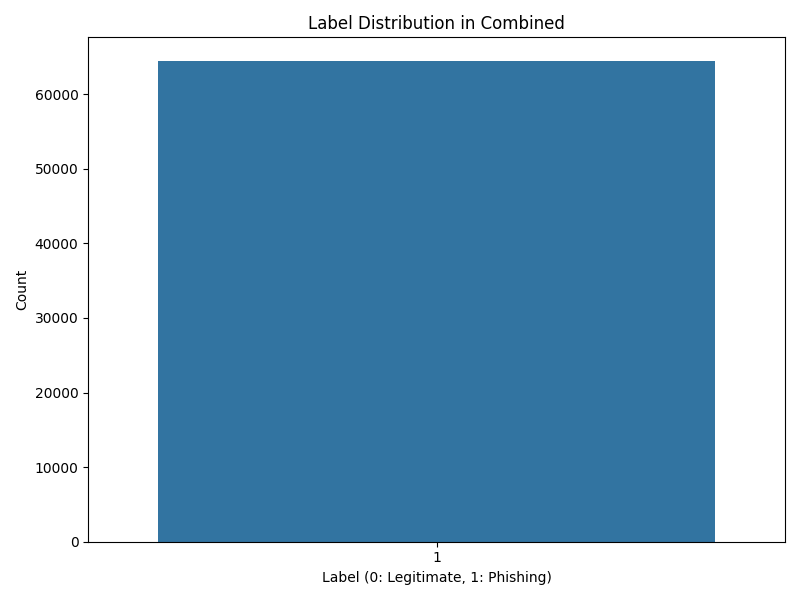
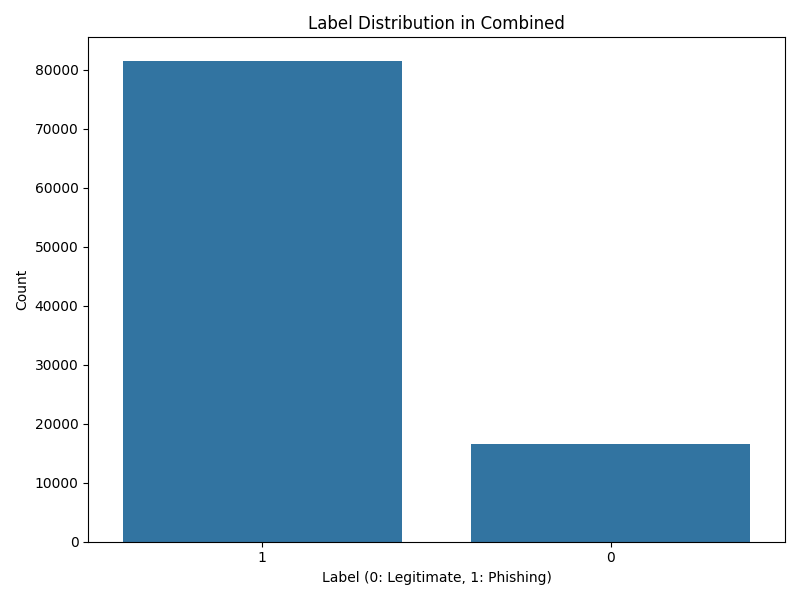
Updated result EDA

diff --git a/results/eda/summary.md b/results/eda/summary.md
@@ -1,36 +1,103 @@
 # EDA Summary
 
 ## Enron
-**Summary**: {'Size': 0, 'Columns': ['text', 'label'], 'Missing Values': {'text': 0, 'label': 0}, 'Duplicates': np.int64(0)}
-**Label Distribution**: {}
-**Text Stats**: {}
-**Top Phishing Words**: []
-**Top Legitimate Words**: []
+**Summary**: {'Size': 33652, 'Columns': ['text', 'label'], 'Missing Values': {'text': 0, 'label': 0}, 'Duplicates': np.int64(4692)}
+**Label Distribution**: {1: 17107, 0: 16545}
+**Text Stats**: {'Char Length Mean': np.float64(1092.2825983596815), 'Char Length Median': np.float64(491.0), 'Word Length Mean': np.float64(1.0), 'Word Length Median': np.float64(1.0)}
+**Top Phishing Words**: [('savepercentonsuperviagrasavepercentonsuperviagraandincreasesexdrivemostplaceschargewechargeonlywhatisregalissuperviagraregaliscontainstadalafilmgwhichisthesameactiveingredientfoundinbrandnamecialisithasbeenprovedtohelpalargemajorityofmenwhosufferfromerectiledysfunctionalsocalledimpotencecialisisregardedasasuperviagraorweekendviagrabecauseitseffectsstartsoonerandlastmuchlongermenthatdonothaveimpotenceproblemsreportthatregalisincreasessexualpleasureandstayingpoweraswellasincreasingthesizeandhardnessoferectionsisitsafeformetotakeregalissuperviagrayoucanexpectgenericcialistoworkinthesamewayasbrandnamecialisbecausetheycontaintheexactsameactiveingredienttadalafilifcialisissafeforyouasdecidedbyyourdoctorgenericcialisisalsosafeforyouandshouldbetakeninthesamedosesasprescribedbyyourdoctortheusualdoesismgeachmgpillcanbesplitinhalfwillyoushipregalissuperviagratomycountrygenericcialisshipsworldwideincludingcanadajapanukandaustraliaweshipourproductinadiscretebrownpackagethatdoesnotmentionthecontentsoftheshipmentallordersareshippedfromindiaandusuallytakedaystoarivehowdoipayforregalissuperviagraweacceptmajorcreditcardsandcheckingaccountsusonlyalldataistransmitteddirectlytothebankusingbitencriptionandprocessedinstantlyweneverkeepyourinformationstoredonourserveryouaretotallysafetoorderonlinefromusinfactorderingonlinefromusissaferthanusingyourcardatarestaurantorstorebuyregalisgenericcialisandsavepercentwehavetheworldsbestpriceguaranteedremove', 9), ('fwdyourneededsoffttwaresatrockbottomprricewhatyouboughtpreviouslywasgotoshopbuuyyawindowsxpprothatcomeswithaboxserialnumberthemanualcosstwhatyouwillgetfromusisthefullwlndowsxpprosofftwareeserialnumberitworksexactlythesamebutyoudontgetthemanualandboxandtheprriceeisonlythatisasavviingofsooftwaretitleourlowpriicceadobbecreativesuitecdsadobbephotooshopcscddstudiomaxcdsadobbepremiereprocdaliaswavefrontmayaunlimitedautocadautodeskarchitecturaldesktopcakewalksonarproducereditioncdscanopusprocodercdcoreldrawgraphicsuitecdsdragonnaturallyspeakingpreferredmacromediadreamweavermxvmacromediafireworksmxvmacromediaflashmxvprofessionalmacromediastudiomxcdmicrosoftmoneydeluxecdmicrosoftofficesystemprofessionalcdsmicrosoftofficemultilingualuserinterfacepackcdsmicrosoftprojectpromicrosoftpublisherxpmicrosoftvisioforenterprisearchitectsmicrosoftwindowsxpcorporateeditionwithsplmicrosoftwindowsxpprofessionalnortonantiviruspronortonsystemworksprocdomnipageofficecdpinnacleimpressiondvdprocdptcproengineerwildfiredatecodecdspowerquestdriveimagemultilanguagecduleaddvdworkshopmicrosoftvisualstudionetenterprisearchitectcdswinfaxproandmoresoftwareshavesoftwaretitlesonoursiteforudownloadyoursofftwaaresfromoursuperfastmbitsconnectionsiteyouwillbegivenyourownexclusiveregistrationkeytoregisterthesofftwaaresyouboughtfromusandnowyouhaveyourownregisteredcopyofsofftwaareswillneverexpiredagainitsoemversionofsofftwaareswhichisanoriginalgenuinesofftwaaresstrictlynopiracysofftwaaresoverpopulartitlesforyoutochoosefromactquicknowbeforeallsoldstartusingyourneededsofftwaaresnowclickhereplzgiveminstocompletethepageloadingbcosthepagehastitlesonittakemedown', 8), ('overfdaapprovedmedsrndaltrndaltrndaltovermedstochoosefromwithnoprescriptionrequirednevermindrndaltrndaltrndalt', 8), ('hellodearhomeownerwehavebeennotifiedthatyourmortgagerateisfixedataveryhighinterestratethereforeyouarecurrentoverpayingwhichsumsuptothousandsofdollarsannuallyluckilyforyouwecanguaranteethelowestratesintheussohurrybecausetherateforecastisnotlookinggoodthereisnoobligationsanditfreelockontheevenwithbadcreditclickherenowfordetailsremovehere', 7), ('newproductcialissofttabshiwehaveanewproductthatweoffertoyoucialissofttabscialissofttabsisthenewimpotencetreatmentdrugthateveryoneistalkingaboutsofttabsactsuptohourscomparethistoonlytwoorthreehoursofviagraactiontheactiveingredientistadalafilsameasinbrandcialissimplydisolvehalfapillunderyourtongueminbeforesexforthebesterectionsyouveeverhadsofttabsalsohavelesssidebacksyoucandriveormixalcoholdrinkswiththemyoucangetitathttpgomedzcomsoftnothankshttpgomedzcomrrphp', 6), ('charityseestheneednotthecostdearfriendasyoureadthisidontwantyoutofeelsorryformebecauseibelieveeveryonewilldiesomedaymynameismrrezaabdullaamerchantinsafatinkuwaitiwasmarriedwithtwochildrenmywifeandtwochildrendiedinacaraccidentsixyearsagoihavebeendiagnosedwithesophagealcancerithasdefiledallformsofmedicaltreatmentandrightnowihaveonlyaboutafewmonthstoliveaccordingtomedicalexpertsihavenotparticularlylivedmylifesowellasineverreallycaredforanyonenotevenmyselfbutmybusinessthoughiamveryrichiwasnevergenerousiwasalwayshostiletopeopleandonlyfocusedonmybusinessasthatwastheonlythingicaredforbutnowiregretallthisasinowknowthatthereismoretolifethanjustwantingtohaveormakeallthemoneyintheworldibelievewhengodgivesmeasecondchancetocometothisworldiwouldlivemylifeadifferentwayfromhowihaveliveditnowthatgodhascalledmeihavewilledandgivenmostofmypropertyandassetstomyimmediateandextendedfamilymembersaswellasafewclosefriendsiwantgodtobemercifultomeandacceptmysoulsoihavedecidedtogivealmstocharityorganizationsasiwantthistobeoneofthelastgooddeedsidoonearthsofarihavedistributedmoneytosomecharityorganizationsintheuaealgeriaandmalaysianowthatmyhealthhasdeterioratedsobadlyicannotdothismyselfanymoreionceaskedmembersofmyfamilytocloseoneofmyaccountsanddistributethemoneywhichihavetheretocharityorganizationinbulgariaandpakistantheyrefusedandkeptthemoneytothemselveshenceidonottrustthemanymoreastheyseemnottobecontendedwithwhatihaveleftforthemthelastofmymoneywhichnooneknowsofisthehugecashdepositoftenmillionsevenhundredthousandamericandollarsusthatihavewithafinancesecuritycompanyabroadiwillwantyoutohelpmecollectthisdepositanddispatchedittocharityorganizationsihavesetasideonlyforyouandforyourtimeandalsoasmiscellaneousexpensesreplymeatyourearliestconvenienceformoredirectivestomyprivateemailaddressrezaabdullawallacomgodbewithyouregardsmrrezaabdulla', 6), ('getadelllaptopcomputerfree', 5), ('getyourcollegedegreeonline', 5), ('doyouejacultebeforeorafterfewminutesofpenetrationthenyoumustreadthisimportantnewinformationatlastsomethingcanbedoneagainstthisembarssingproblemwhichleadstodiscomforteveninlongestablishedrelationshipsifyouaremanenoughtoreadongoherenotinterested', 5), ('womenchangeyourlife', 4)]
+**Top Legitimate Words**: [('startdatehouraheadhourstartdatehouraheadhournoancillaryschedulesawardednovariancesdetectedlogmessagesparsingfileo\\portland\\westdesk\\californiascheduling\\isofinalschedules\\txt', 449), ('schedulecrawlerhouraheadfailurestartdatehouraheadhourhouraheadscheduledownloadfailedmanualinterventionrequired', 85), ('schedulecrawlerhouraheadfailurestartdatehouraheadhourhouraheadscheduledownloadfailedmanualinterventionrequiredlogmessagesparsingfileo\\portland\\westdesk\\californiascheduling\\isofinalschedules\\txterrordbcapsdatacannotperformthisoperationonacloseddatabaseunknowndatabasealiasdbcapsdataunknowndatabasealiasdbcapsdataunknowndatabasealiasdbcapsdataerrordbcapsdatacannotperformthisoperationonacloseddatabaseunknowndatabasealiasdbcapsdataunknowndatabasealiasdbcapsdataunknowndatabasealiasdbcapsdataerrordbcapsdatacannotperformthisoperationonacloseddatabaseunknowndatabasealiasdbcapsdataunknowndatabasealiasdbcapsdataerrordbcapsdatacannotperformthisoperationonacloseddatabaseerrordbcapsdatacannotperformthisoperationonacloseddatabaseerrordbcapsdatacannotperformthisoperationonacloseddatabaseunknowndatabasealiasdbcapsdataunknowndatabasealiasdbcapsdataunknowndatabasealiasdbcapsdataunknowndatabasealiasdbcapsdataunknowndatabasealiasdbcapsdataunknowndatabasealiasdbcapsdataunknowndatabasealiasdbcapsdataerrordbcapsdatacannotperformthisoperationonacloseddatabase', 42), ('startdatehouraheadhourstartdatehouraheadhournoancillaryschedulesawardedvariancesdetectedvariancesdetectedinloadschedulelogmessagesparsingfileo\\portland\\westdesk\\californiascheduling\\isofinalschedules\\txtloadschedulevariancefoundintabletblloadsdetailshourpreferredfinaltranstypefinalloadidpgemkttypetransdatescidenrj', 37), ('schedulecrawlerhouraheadfailurestartdatehouraheadhourhouraheadscheduledownloadfailedmanualinterventionrequiredlogmessagesparsingfileo\\portland\\westdesk\\californiascheduling\\isofinalschedules\\txterrordbcapsdatacannotperformthisoperationonacloseddatabaseunknowndatabasealiasdbcapsdataunknowndatabasealiasdbcapsdataunknowndatabasealiasdbcapsdataerrordbcapsdatacannotperformthisoperationonacloseddatabaseunknowndatabasealiasdbcapsdataunknowndatabasealiasdbcapsdataunknowndatabasealiasdbcapsdataerrordbcapsdatacannotperformthisoperationonacloseddatabaseunknowndatabasealiasdbcapsdataunknowndatabasealiasdbcapsdataerrordbcapsdatacannotperformthisoperationonacloseddatabaseerrordbcapsdatacannotperformthisoperationonacloseddatabaseerrordbcapsdatacannotperformthisoperationonacloseddatabaseunknowndatabasealiasdbcapsdataunknowndatabasealiasdbcapsdataunknowndatabasealiasdbcapsdataunknowndatabasealiasdbcapsdataunknowndatabasealiasdbcapsdataunknowndatabasealiasdbcapsdataerrordbcapsdatacannotperformthisoperationonacloseddatabase', 36), ('hplnomformarchseeattachedfilehplnoxlshplnoxls', 31), ('hplnomforaprilseeattachedfilehplnoxlshplnoxls', 22), ('hplnomformayseeattachedfilehplnoxlshplnoxls', 22), ('startdatehouraheadhourstartdatehouraheadhournoancillaryschedulesawardednovariancesdetectedlogmessagesparsingfileo\\portland\\westdesk\\californiascheduling\\isofinalschedules\\txtcannotlocateapreferredorrevisedpreferredschedulethatmatchesthefinalindividualinterchangescheduleunabletoassigndealnumber', 21), ('calpinedailygasnominationrickyaarcherfuelsupplylouisianasuitehoustontexasdirectfaxcalpinedailygasnominationdoc', 20)]
 **Top Phishing Bigrams**: []
 **Top Legitimate Bigrams**: []
+**Top Phishing Trigrams**: []
+**Top Legitimate Trigrams**: []
 ## PhishTank
-**Summary**: {'Size': 64391, 'Columns': ['text', 'label'], 'Missing Values': {'text': 0, 'label': 0}, 'Duplicates': np.int64(0)}
-**Label Distribution**: {1: 64391}
-**Text Stats**: {'Char Length Mean': np.float64(46.2749141960833), 'Char Length Median': np.float64(27.0), 'Word Length Mean': np.float64(1.0321473497849079), 'Word Length Median': np.float64(1.0)}
-**Top Phishing Words**: [('auth', 84), ('sso', 82), ('cdn.webflow.io/', 82), ('help', 58), ('auth.webflow.io/', 52), ('secure', 48), ('start', 47), ('app', 36), ('cdn', 30), ('coinbasepro', 23)]
+**Summary**: {'Size': 64320, 'Columns': ['text', 'label'], 'Missing Values': {'text': 0, 'label': 0}, 'Duplicates': np.int64(0)}
+**Label Distribution**: {1: 64320}
+**Text Stats**: {'Char Length Mean': np.float64(45.44395211442786), 'Char Length Median': np.float64(26.0), 'Word Length Mean': np.float64(1.0012748756218905), 'Word Length Median': np.float64(1.0)}
+**Top Phishing Words**: [('...', 20), ('xnd1aqfkf.xnp1ai/bitrix/', 5), ('xnd1aqfkf.xnp1ai443/bitrix/', 3), ('papertrlkeyij9heg0tddevqoek3q94lj8uhdl0', 2), ('papertdl0rlkeycmogrenrbjfp51d8k5prlx5pl', 2), ('/globalsources/emailsalesrtmachine.com', 2), ('/globalsources/emailjerwinclmgcorp.com', 2), ('/globalsources/emailinfo.sgovivowater.com', 2), ('bayareafastrak.orgetcsw.win/', 1), ('bayareafastrak.orgetcsv.win/', 1)]
 **Top Legitimate Words**: []
-**Top Phishing Bigrams**: [(('coinbasepro', 'cdn'), 9), (('cdn', 'auth.webflow.io/'), 8), (('auth', 'start'), 7), (('secure', 'blockfi'), 7), (('sso', 'coinbasepro'), 6), (('d1aqfkf.xn', 'p1ai/bitrix/'), 6), (('p1ai/bitrix/', '...'), 6), (('secure-app', 'coinbasepro'), 5), (('auth', 'sso'), 5), (('secure', 'suite'), 4)]
+**Top Phishing Bigrams**: [(('xnd1aqfkf.xnp1ai/bitrix/', '...'), 5), (('xnd1aqfkf.xnp1ai443/bitrix/', '...'), 3), (('...', 'papertdl0rlkeycmogrenrbjfp51d8k5prlx5pl'), 2), (('...', '/globalsources/emailsalesrtmachine.com'), 2), (('...', '/globalsources/emailjerwinclmgcorp.com'), 2), (('...', '/globalsources/emailinfo.sgovivowater.com'), 2), (('www.3136mase.life/account/loginspm', 'index.header_1.1'), 1), (('allegrolokalnie.zakuponline24h.pl/oferta/', '...'), 1), (('t.co/abbziz0dxse_5346ampupdate1amptoken2y125572', '5724'), 1), (('allegrolokalnie.zakuponline24h.pl/oferta/jblpartybox710pr', '...'), 1)]
 **Top Legitimate Bigrams**: []
+**Top Phishing Trigrams**: [(('www.clinicadapele.com.br/wpcontent/uploads/alert/', '...', '/index.php'), 1), (('admirablebaklava6996abhk112s.netlify.app/dist/rcdnull/dist/rcdnull/dist/rcdnull/dist/rcdnull/dist/rcdnull/dist/rcdnull/dist/rcdnull/dist/rcdnull//dist/rcdnull/dist/rcdnull/dist/rcdnull/dist/rcdnull/dist/rcdnull/dist/rcdnull/dist/rcdnull', '....', '2031120'), 1), (('....', '2031120', '...'), 1), (('2031120', '...', '/dist/rcdnull/dist/rcdnull'), 1), (('zolotayapodkovka.ru/.tmb/', '...', '/closed/fr/1/doc/start_index.php'), 1), (('www.dropbox.com/scl/fi/hrs78ef9ib5wfwssijyzj/btnewsecurityfeaturese280a6', '...', 'papertdl0rlkeycmogrenrbjfp51d8k5prlx5pl'), 1), (('www.dropbox.com/scl/fi/hrs78ef9ib5wfwssijyzj/btvoicemailrecorde280a6', '...', 'papertdl0rlkeycmogrenrbjfp51d8k5prlx5pl'), 1), (('xnd1aqfkf.xnp1ai443/bitrix/', '...', '/globalsources/emailsalesrtmachine.com'), 1), (('xnd1aqfkf.xnp1ai/bitrix/', '...', '/globalsources/emailsalesrtmachine.com'), 1), (('xnd1aqfkf.xnp1ai443/bitrix/', '...', '/globalsources/emailjerwinclmgcorp.com'), 1)]
+**Top Legitimate Trigrams**: []
 ## UCI
-**Summary**: {'Size': 0, 'Columns': ['label'], 'Missing Values': {'label': 0}, 'Duplicates': np.int64(0)}
-**Label Distribution**: {}
-**Feature Stats**: {}
+**Summary**: {'Size': 5849, 'Columns': ['having_IP_Address', 'URL_Length', 'Shortining_Service', 'having_At_Symbol', 'double_slash_redirecting', 'Prefix_Suffix', 'having_Sub_Domain', 'SSLfinal_State', 'Domain_registeration_length', 'Favicon', 'port', 'HTTPS_token', 'Request_URL', 'URL_of_Anchor', 'Links_in_tags', 'SFH', 'Submitting_to_email', 'Abnormal_URL', 'Redirect', 'on_mouseover', 'RightClick', 'popUpWidnow', 'Iframe', 'age_of_domain', 'DNSRecord', 'web_traffic', 'Page_Rank', 'Google_Index', 'Links_pointing_to_page', 'Statistical_report', 'label'], 'Missing Values': {'having_IP_Address': 0, 'URL_Length': 0, 'Shortining_Service': 0, 'having_At_Symbol': 0, 'double_slash_redirecting': 0, 'Prefix_Suffix': 0, 'having_Sub_Domain': 0, 'SSLfinal_State': 0, 'Domain_registeration_length': 0, 'Favicon': 0, 'port': 0, 'HTTPS_token': 0, 'Request_URL': 0, 'URL_of_Anchor': 0, 'Links_in_tags': 0, 'SFH': 0, 'Submitting_to_email': 0, 'Abnormal_URL': 0, 'Redirect': 0, 'on_mouseover': 0, 'RightClick': 0, 'popUpWidnow': 0, 'Iframe': 0, 'age_of_domain': 0, 'DNSRecord': 0, 'web_traffic': 0, 'Page_Rank': 0, 'Google_Index': 0, 'Links_pointing_to_page': 0, 'Statistical_report': 0, 'label': 0}, 'Duplicates': np.int64(0)}
+**Label Distribution**: {1: 3019, 0: 2830}
+**Feature Stats**: {'having_IP_Address': {1: 3313, -1: 2536}, 'URL_Length': {-1: 4678, 1: 1075, 0: 96}, 'Shortining_Service': {1: 5031, -1: 818}, 'having_At_Symbol': {1: 4646, -1: 1203}, 'double_slash_redirecting': {1: 5025, -1: 824}, 'Prefix_Suffix': {-1: 5148, 1: 701}, 'having_Sub_Domain': {1: 2088, 0: 2058, -1: 1703}, 'SSLfinal_State': {1: 3000, -1: 2128, 0: 721}, 'Domain_registeration_length': {-1: 3819, 1: 2030}, 'Favicon': {1: 4626, -1: 1223}, 'port': {1: 4906, -1: 943}, 'HTTPS_token': {1: 4836, -1: 1013}, 'Request_URL': {1: 3278, -1: 2571}, 'URL_of_Anchor': {0: 2655, -1: 2002, 1: 1192}, 'Links_in_tags': {0: 2258, -1: 2225, 1: 1366}, 'SFH': {-1: 4375, 1: 956, 0: 518}, 'Submitting_to_email': {1: 4606, -1: 1243}, 'Abnormal_URL': {1: 4908, -1: 941}, 'Redirect': {0: 5078, 1: 771}, 'on_mouseover': {1: 5039, -1: 810}, 'RightClick': {1: 5562, -1: 287}, 'popUpWidnow': {1: 4574, -1: 1275}, 'Iframe': {1: 5222, -1: 627}, 'age_of_domain': {1: 2987, -1: 2862}, 'DNSRecord': {1: 4314, -1: 1535}, 'web_traffic': {1: 2839, 0: 1539, -1: 1471}, 'Page_Rank': {-1: 4164, 1: 1685}, 'Google_Index': {1: 4860, -1: 989}, 'Links_pointing_to_page': {0: 3181, 1: 2351, -1: 317}, 'Statistical_report': {1: 4963, -1: 886}}
 **Feature Correlations**: 
-Empty DataFrame
-Columns: []
-Index: []
+                             having_IP_Address  URL_Length  Shortining_Service  having_At_Symbol  double_slash_redirecting  Prefix_Suffix  having_Sub_Domain  SSLfinal_State  Domain_registeration_length   Favicon      port  HTTPS_token  Request_URL  URL_of_Anchor  Links_in_tags       SFH  Submitting_to_email  Abnormal_URL  Redirect  on_mouseover  RightClick  popUpWidnow    Iframe  age_of_domain  DNSRecord  web_traffic  Page_Rank  Google_Index  Links_pointing_to_page  Statistical_report     label
+having_IP_Address                     1.000000   -0.040473            0.301725          0.148862                  0.293266       0.024366          -0.064956        0.067208                    -0.013651  0.083762  0.059231     0.269665     0.021735       0.109221       0.002491  0.026325             0.069206      0.234744 -0.215907      0.077709    0.040827     0.099592  0.054807      -0.015805  -0.085114    -0.003703  -0.087927      0.010300               -0.314681           -0.045373 -0.104952
+URL_Length                           -0.040473    1.000000           -0.112819         -0.060435                 -0.084463       0.070989          -0.006535        0.048342                    -0.226193 -0.001824  0.026384    -0.093593     0.260704      -0.041201       0.048257  0.261950             0.009307     -0.110550  0.038323     -0.015260    0.002248    -0.016198  0.004811       0.221336  -0.044279    -0.000348   0.220011     -0.002480               -0.038011           -0.032996 -0.058228
+Shortining_Service                    0.301725   -0.112819            1.000000          0.133856                  0.815809      -0.071278          -0.049859       -0.066683                     0.060993  0.009649  0.005521     0.729916    -0.030353      -0.003586      -0.154438 -0.011205             0.049600      0.711595 -0.424283      0.069528    0.061300     0.048578  0.032366      -0.053506   0.488871    -0.032635  -0.002555      0.186332               -0.179253            0.028998  0.076166
+having_At_Symbol                      0.148862   -0.060435            0.133856          1.000000                  0.112493      -0.015395          -0.053146        0.020751                     0.020013  0.383249  0.448649     0.131508     0.015516       0.049183      -0.064122  0.021739             0.456341      0.254950 -0.035540      0.340932    0.258423     0.366523  0.344610      -0.002238  -0.013184     0.015039  -0.053646      0.019846               -0.029701           -0.082859 -0.034757
+double_slash_redirecting              0.293266   -0.084463            0.815809          0.112493                  1.000000      -0.077538          -0.051302       -0.038359                     0.043342  0.032272  0.026930     0.736728    -0.010099      -0.007523      -0.143674 -0.029731             0.031099      0.685394 -0.478494      0.085207    0.044518     0.057585  0.023302      -0.054262   0.485620    -0.047766  -0.019120      0.218521               -0.166749            0.013956  0.036693
+Prefix_Suffix                         0.024366    0.070989           -0.071278         -0.015395                 -0.077538       1.000000           0.104876        0.278177                    -0.110907 -0.010905 -0.021446    -0.074552     0.109382       0.342352       0.108713  0.001929            -0.043785     -0.083414 -0.011521      0.009263   -0.025839    -0.007894 -0.038888       0.063193  -0.022770     0.106466  -0.002263      0.062539                0.071123            0.017894 -0.381134
+having_Sub_Domain                    -0.064956   -0.006535           -0.049859         -0.053146                 -0.051302       0.104876           1.000000        0.255770                    -0.083085 -0.035891 -0.015024    -0.041849     0.115153       0.232287       0.088187  0.101921            -0.014679     -0.049329  0.046138     -0.030032    0.010743    -0.038745 -0.001880       0.032986   0.089132    -0.044901   0.093202      0.066567                0.019548            0.097661 -0.296214
+SSLfinal_State                        0.067208    0.048342           -0.066683          0.020751                 -0.038359       0.278177           0.255770        1.000000                    -0.175864 -0.027138  0.012366    -0.031758     0.168916       0.517181       0.176158  0.204778            -0.010257     -0.065294 -0.040427      0.003084    0.019511    -0.023704 -0.004498       0.107550   0.019273     0.211850   0.020743      0.078182                0.019410            0.089295 -0.693228
+Domain_registeration_length          -0.013651   -0.226193            0.060993          0.020013                  0.043342      -0.110907          -0.083085       -0.175864                     1.000000  0.063998  0.028601     0.048954    -0.568530      -0.148868      -0.091866 -0.115325             0.048642      0.054339 -0.005934      0.024045    0.025952     0.061336  0.005354      -0.058693   0.013673    -0.112966  -0.068845     -0.032338                0.103013           -0.022538  0.218623
+Favicon                               0.083762   -0.001824            0.009649          0.383249                  0.032272      -0.010905          -0.035891       -0.027138                     0.063998  1.000000  0.812657     0.051313    -0.022519       0.027009      -0.119961  0.021779             0.663994      0.063209 -0.002221      0.690905    0.395078     0.933145  0.622273      -0.004568   0.061194    -0.055462   0.021655     -0.025568               -0.127583            0.187324  0.025457
+port                                  0.059231    0.026384            0.005521          0.448649                  0.026930      -0.021446          -0.015024        0.012366                     0.028601  0.812657  1.000000     0.015579     0.004208       0.030365      -0.090302  0.034970             0.784856      0.050979 -0.009203      0.618367    0.464316     0.754950  0.680650       0.004256   0.034366    -0.034588   0.020186     -0.015443               -0.140582            0.219361 -0.014201
+HTTPS_token                           0.269665   -0.093593            0.729916          0.131508                  0.736728      -0.074552          -0.041849       -0.031758                     0.048954  0.051313  0.015579     1.000000     0.013402       0.006047      -0.123727  0.001111             0.072585      0.678807 -0.357218      0.113425    0.019439     0.075703  0.031266      -0.046705   0.436598    -0.028485   0.013796      0.146708               -0.116840            0.037242  0.051412
+Request_URL                           0.021735    0.260704           -0.030353          0.015516                 -0.010099       0.109382           0.115153        0.168916                    -0.568530 -0.022519  0.004208     0.013402     1.000000       0.166545       0.061501  0.110500            -0.010421     -0.027777 -0.008245     -0.003037   -0.030545    -0.023729  0.012687       0.090941  -0.004485     0.134844   0.071242      0.034253               -0.044580            0.040880 -0.237778
+URL_of_Anchor                         0.109221   -0.041201           -0.003586          0.049183                 -0.007523       0.342352           0.232287        0.517181                    -0.148868  0.027009  0.030365     0.006047     0.166545       1.000000       0.113241  0.161488             0.019497     -0.031613 -0.000855      0.044206    0.017724     0.038468  0.008504       0.015386   0.066612     0.275604   0.063112      0.034585                0.047060            0.103343 -0.679125
+Links_in_tags                         0.002491    0.048257           -0.154438         -0.064122                 -0.143674       0.108713           0.088187        0.176158                    -0.091866 -0.119961 -0.090302    -0.123727     0.061501       0.113241       1.000000  0.079422            -0.064916     -0.143404  0.028387     -0.091938   -0.055685    -0.140019 -0.088378       0.079400  -0.076964     0.045159  -0.031655      0.034819                0.031353           -0.070089 -0.243864
+SFH                                   0.026325    0.261950           -0.011205          0.021739                 -0.029731       0.001929           0.101921        0.204778                    -0.115325  0.021779  0.034970     0.001111     0.110500       0.161488       0.079422  1.000000             0.038986     -0.020995  0.035944      0.037063    0.035899     0.028915  0.033307      -0.029890   0.038985     0.060513  -0.017527      0.033771               -0.011360            0.031017 -0.281131
+Submitting_to_email                   0.069206    0.009307            0.049600          0.456341                  0.031099      -0.043785          -0.014679       -0.010257                     0.048642  0.663994  0.784856     0.072585    -0.010421       0.019497      -0.064916  0.038986             1.000000      0.193395  0.005991      0.520115    0.379229     0.621556  0.557599       0.002326   0.033997    -0.024936   0.025921     -0.022497               -0.035908            0.210660  0.008014
+Abnormal_URL                          0.234744   -0.110550            0.711595          0.254950                  0.685394      -0.083414          -0.049329       -0.065294                     0.054339  0.063209  0.050979     0.678807    -0.027777      -0.031613      -0.143404 -0.020995             0.193395      1.000000 -0.350698      0.111391    0.031939     0.088894  0.016736      -0.036717   0.401954    -0.044458  -0.006076      0.148831               -0.131618            0.090151  0.090043
+Redirect                             -0.215907    0.038323           -0.424283         -0.035540                 -0.478494      -0.011521           0.046138       -0.040427                    -0.005934 -0.002221 -0.009203    -0.357218    -0.008245      -0.000855       0.028387  0.035944             0.005991     -0.350698  1.000000     -0.020818   -0.021451    -0.015831 -0.007107      -0.055341  -0.182256    -0.017945   0.079109      0.065215                0.113375           -0.021441  0.037462
+on_mouseover                          0.077709   -0.015260            0.069528          0.340932                  0.085207       0.009263          -0.030032        0.003084                     0.024045  0.690905  0.618367     0.113425    -0.003037       0.044206      -0.091938  0.037063             0.520115      0.111391 -0.020818      1.000000    0.468040     0.731814  0.667464       0.010551   0.066856    -0.044678   0.024425     -0.014476               -0.037891            0.167474 -0.012790
+RightClick                            0.040827    0.002248            0.061300          0.258423                  0.044518      -0.025839           0.010743        0.019511                     0.025952  0.395078  0.464316     0.019439    -0.030545       0.017724      -0.055685  0.035899             0.379229      0.031939 -0.021451      0.468040    1.000000     0.399576  0.635089      -0.003853   0.033606    -0.009463   0.027404     -0.011674               -0.112364            0.126998 -0.009286
+popUpWidnow                           0.099592   -0.016198            0.048578          0.366523                  0.057585      -0.007894          -0.038745       -0.023704                     0.061336  0.933145  0.754950     0.075703    -0.023729       0.038468      -0.140019  0.028915             0.621556      0.088894 -0.015831      0.731814    0.399576     1.000000  0.624184      -0.002382   0.078489    -0.046022   0.026797     -0.018326               -0.120597            0.176561  0.022455
+Iframe                                0.054807    0.004811            0.032366          0.344610                  0.023302      -0.038888          -0.001880       -0.004498                     0.005354  0.622273  0.680650     0.031266     0.012687       0.008504      -0.088378  0.033307             0.557599      0.016736 -0.007107      0.667464    0.635089     0.624184  1.000000       0.012382   0.035739    -0.025663   0.022733     -0.010348               -0.137413            0.174223  0.011756
+age_of_domain                        -0.015805    0.221336           -0.053506         -0.002238                 -0.054262       0.063193           0.032986        0.107550                    -0.058693 -0.004568  0.004256    -0.046705     0.090941       0.015386       0.079400 -0.029890             0.002326     -0.036717 -0.055341      0.010551   -0.003853    -0.002382  0.012382       1.000000  -0.040500     0.087118  -0.211088     -0.075672                0.037963            0.003308 -0.062800
+DNSRecord                            -0.085114   -0.044279            0.488871         -0.013184                  0.485620      -0.022770           0.089132        0.019273                     0.013673  0.061194  0.034366     0.436598    -0.004485       0.066612      -0.076964  0.038985             0.033997      0.401954 -0.182256      0.066856    0.033606     0.078489  0.035739      -0.040500   1.000000     0.027296   0.115162      0.192263               -0.234379            0.101325 -0.033204
+web_traffic                          -0.003703   -0.000348           -0.032635          0.015039                 -0.047766       0.106466          -0.044901        0.211850                    -0.112966 -0.055462 -0.034588    -0.028485     0.134844       0.275604       0.045159  0.060513            -0.024936     -0.044458 -0.017945     -0.044678   -0.009463    -0.046022 -0.025663       0.087118   0.027296     1.000000  -0.016043     -0.035723                0.010109            0.040546 -0.281709
+Page_Rank                            -0.087927    0.220011           -0.002555         -0.053646                 -0.019120      -0.002263           0.093202        0.020743                    -0.068845  0.021655  0.020186     0.013796     0.071242       0.063112      -0.031655 -0.017527             0.025921     -0.006076  0.079109      0.024425    0.027404     0.026797  0.022733      -0.211088   0.115162    -0.016043   1.000000      0.069410               -0.022145            0.028686 -0.048140
+Google_Index                          0.010300   -0.002480            0.186332          0.019846                  0.218521       0.062539           0.066567        0.078182                    -0.032338 -0.025568 -0.015443     0.146708     0.034253       0.034585       0.034819  0.033771            -0.022497      0.148831  0.065215     -0.014476   -0.011674    -0.018326 -0.010348      -0.075672   0.192263    -0.035723   0.069410      1.000000               -0.044175           -0.011212 -0.118217
+Links_pointing_to_page               -0.314681   -0.038011           -0.179253         -0.029701                 -0.166749       0.071123           0.019548        0.019410                     0.103013 -0.127583 -0.140582    -0.116840    -0.044580       0.047060       0.031353 -0.011360            -0.035908     -0.131618  0.113375     -0.037891   -0.112364    -0.120597 -0.137413       0.037963  -0.234379     0.010109  -0.022145     -0.044175                1.000000            0.015739 -0.068463
+Statistical_report                   -0.045373   -0.032996            0.028998         -0.082859                  0.013956       0.017894           0.097661        0.089295                    -0.022538  0.187324  0.219361     0.037242     0.040880       0.103343      -0.070089  0.031017             0.210660      0.090151 -0.021441      0.167474    0.126998     0.176561  0.174223       0.003308   0.101325     0.040546   0.028686     -0.011212                0.015739            1.000000 -0.108486
+label                                -0.104952   -0.058228            0.076166         -0.034757                  0.036693      -0.381134          -0.296214       -0.693228                     0.218623  0.025457 -0.014201     0.051412    -0.237778      -0.679125      -0.243864 -0.281131             0.008014      0.090043  0.037462     -0.012790   -0.009286     0.022455  0.011756      -0.062800  -0.033204    -0.281709  -0.048140     -0.118217               -0.068463           -0.108486  1.000000
 **Feature Importance**: 
-Series([], )
+SSLfinal_State                 0.305886
+URL_of_Anchor                  0.240910
+having_Sub_Domain              0.065521
+web_traffic                    0.055769
+Prefix_Suffix                  0.052247
+Links_in_tags                  0.044332
+SFH                            0.033302
+Links_pointing_to_page         0.020248
+Request_URL                    0.018719
+Domain_registeration_length    0.017815
+age_of_domain                  0.014796
+having_IP_Address              0.014575
+Page_Rank                      0.012182
+Google_Index                   0.011892
+DNSRecord                      0.010371
+URL_Length                     0.010025
+HTTPS_token                    0.007186
+Redirect                       0.006892
+having_At_Symbol               0.006746
+Statistical_report             0.006409
+popUpWidnow                    0.005973
+Submitting_to_email            0.005906
+Abnormal_URL                   0.005857
+Shortining_Service             0.005663
+Favicon                        0.004618
+double_slash_redirecting       0.004396
+on_mouseover                   0.004109
+port                           0.002893
+Iframe                         0.002882
+RightClick                     0.001881
 ## Combined (Enron + PhishTank)
-**Summary**: {'Size': 64391, 'Columns': ['text', 'label'], 'Missing Values': {'text': 0, 'label': 0}, 'Duplicates': np.int64(0)}
-**Label Distribution**: {1: 64391}
-**Text Stats**: {'Char Length Mean': np.float64(46.2749141960833), 'Char Length Median': np.float64(27.0), 'Word Length Mean': np.float64(1.0321473497849079), 'Word Length Median': np.float64(1.0)}
-**Top Phishing Words**: [('auth', 84), ('sso', 82), ('cdn.webflow.io/', 82), ('help', 58), ('auth.webflow.io/', 52), ('secure', 48), ('start', 47), ('app', 36), ('cdn', 30), ('coinbasepro', 23)]
-**Top Legitimate Words**: []
-**Top Phishing Bigrams**: [(('coinbasepro', 'cdn'), 9), (('cdn', 'auth.webflow.io/'), 8), (('auth', 'start'), 7), (('secure', 'blockfi'), 7), (('sso', 'coinbasepro'), 6), (('d1aqfkf.xn', 'p1ai/bitrix/'), 6), (('p1ai/bitrix/', '...'), 6), (('secure-app', 'coinbasepro'), 5), (('auth', 'sso'), 5), (('secure', 'suite'), 4)]
+**Summary**: {'Size': 97972, 'Columns': ['text', 'label'], 'Missing Values': {'text': 0, 'label': 0}, 'Duplicates': np.int64(4692)}
+**Label Distribution**: {1: 81427, 0: 16545}
+**Text Stats**: {'Char Length Mean': np.float64(405.0182603192749), 'Char Length Median': np.float64(43.0), 'Word Length Mean': np.float64(1.0008369738292573), 'Word Length Median': np.float64(1.0)}
+**Top Phishing Words**: [('...', 20), ('savepercentonsuperviagrasavepercentonsuperviagraandincreasesexdrivemostplaceschargewechargeonlywhatisregalissuperviagraregaliscontainstadalafilmgwhichisthesameactiveingredientfoundinbrandnamecialisithasbeenprovedtohelpalargemajorityofmenwhosufferfromerectiledysfunctionalsocalledimpotencecialisisregardedasasuperviagraorweekendviagrabecauseitseffectsstartsoonerandlastmuchlongermenthatdonothaveimpotenceproblemsreportthatregalisincreasessexualpleasureandstayingpoweraswellasincreasingthesizeandhardnessoferectionsisitsafeformetotakeregalissuperviagrayoucanexpectgenericcialistoworkinthesamewayasbrandnamecialisbecausetheycontaintheexactsameactiveingredienttadalafilifcialisissafeforyouasdecidedbyyourdoctorgenericcialisisalsosafeforyouandshouldbetakeninthesamedosesasprescribedbyyourdoctortheusualdoesismgeachmgpillcanbesplitinhalfwillyoushipregalissuperviagratomycountrygenericcialisshipsworldwideincludingcanadajapanukandaustraliaweshipourproductinadiscretebrownpackagethatdoesnotmentionthecontentsoftheshipmentallordersareshippedfromindiaandusuallytakedaystoarivehowdoipayforregalissuperviagraweacceptmajorcreditcardsandcheckingaccountsusonlyalldataistransmitteddirectlytothebankusingbitencriptionandprocessedinstantlyweneverkeepyourinformationstoredonourserveryouaretotallysafetoorderonlinefromusinfactorderingonlinefromusissaferthanusingyourcardatarestaurantorstorebuyregalisgenericcialisandsavepercentwehavetheworldsbestpriceguaranteedremove', 9), ('fwdyourneededsoffttwaresatrockbottomprricewhatyouboughtpreviouslywasgotoshopbuuyyawindowsxpprothatcomeswithaboxserialnumberthemanualcosstwhatyouwillgetfromusisthefullwlndowsxpprosofftwareeserialnumberitworksexactlythesamebutyoudontgetthemanualandboxandtheprriceeisonlythatisasavviingofsooftwaretitleourlowpriicceadobbecreativesuitecdsadobbephotooshopcscddstudiomaxcdsadobbepremiereprocdaliaswavefrontmayaunlimitedautocadautodeskarchitecturaldesktopcakewalksonarproducereditioncdscanopusprocodercdcoreldrawgraphicsuitecdsdragonnaturallyspeakingpreferredmacromediadreamweavermxvmacromediafireworksmxvmacromediaflashmxvprofessionalmacromediastudiomxcdmicrosoftmoneydeluxecdmicrosoftofficesystemprofessionalcdsmicrosoftofficemultilingualuserinterfacepackcdsmicrosoftprojectpromicrosoftpublisherxpmicrosoftvisioforenterprisearchitectsmicrosoftwindowsxpcorporateeditionwithsplmicrosoftwindowsxpprofessionalnortonantiviruspronortonsystemworksprocdomnipageofficecdpinnacleimpressiondvdprocdptcproengineerwildfiredatecodecdspowerquestdriveimagemultilanguagecduleaddvdworkshopmicrosoftvisualstudionetenterprisearchitectcdswinfaxproandmoresoftwareshavesoftwaretitlesonoursiteforudownloadyoursofftwaaresfromoursuperfastmbitsconnectionsiteyouwillbegivenyourownexclusiveregistrationkeytoregisterthesofftwaaresyouboughtfromusandnowyouhaveyourownregisteredcopyofsofftwaareswillneverexpiredagainitsoemversionofsofftwaareswhichisanoriginalgenuinesofftwaaresstrictlynopiracysofftwaaresoverpopulartitlesforyoutochoosefromactquicknowbeforeallsoldstartusingyourneededsofftwaaresnowclickhereplzgiveminstocompletethepageloadingbcosthepagehastitlesonittakemedown', 8), ('overfdaapprovedmedsrndaltrndaltrndaltovermedstochoosefromwithnoprescriptionrequirednevermindrndaltrndaltrndalt', 8), ('hellodearhomeownerwehavebeennotifiedthatyourmortgagerateisfixedataveryhighinterestratethereforeyouarecurrentoverpayingwhichsumsuptothousandsofdollarsannuallyluckilyforyouwecanguaranteethelowestratesintheussohurrybecausetherateforecastisnotlookinggoodthereisnoobligationsanditfreelockontheevenwithbadcreditclickherenowfordetailsremovehere', 7), ('newproductcialissofttabshiwehaveanewproductthatweoffertoyoucialissofttabscialissofttabsisthenewimpotencetreatmentdrugthateveryoneistalkingaboutsofttabsactsuptohourscomparethistoonlytwoorthreehoursofviagraactiontheactiveingredientistadalafilsameasinbrandcialissimplydisolvehalfapillunderyourtongueminbeforesexforthebesterectionsyouveeverhadsofttabsalsohavelesssidebacksyoucandriveormixalcoholdrinkswiththemyoucangetitathttpgomedzcomsoftnothankshttpgomedzcomrrphp', 6), ('charityseestheneednotthecostdearfriendasyoureadthisidontwantyoutofeelsorryformebecauseibelieveeveryonewilldiesomedaymynameismrrezaabdullaamerchantinsafatinkuwaitiwasmarriedwithtwochildrenmywifeandtwochildrendiedinacaraccidentsixyearsagoihavebeendiagnosedwithesophagealcancerithasdefiledallformsofmedicaltreatmentandrightnowihaveonlyaboutafewmonthstoliveaccordingtomedicalexpertsihavenotparticularlylivedmylifesowellasineverreallycaredforanyonenotevenmyselfbutmybusinessthoughiamveryrichiwasnevergenerousiwasalwayshostiletopeopleandonlyfocusedonmybusinessasthatwastheonlythingicaredforbutnowiregretallthisasinowknowthatthereismoretolifethanjustwantingtohaveormakeallthemoneyintheworldibelievewhengodgivesmeasecondchancetocometothisworldiwouldlivemylifeadifferentwayfromhowihaveliveditnowthatgodhascalledmeihavewilledandgivenmostofmypropertyandassetstomyimmediateandextendedfamilymembersaswellasafewclosefriendsiwantgodtobemercifultomeandacceptmysoulsoihavedecidedtogivealmstocharityorganizationsasiwantthistobeoneofthelastgooddeedsidoonearthsofarihavedistributedmoneytosomecharityorganizationsintheuaealgeriaandmalaysianowthatmyhealthhasdeterioratedsobadlyicannotdothismyselfanymoreionceaskedmembersofmyfamilytocloseoneofmyaccountsanddistributethemoneywhichihavetheretocharityorganizationinbulgariaandpakistantheyrefusedandkeptthemoneytothemselveshenceidonottrustthemanymoreastheyseemnottobecontendedwithwhatihaveleftforthemthelastofmymoneywhichnooneknowsofisthehugecashdepositoftenmillionsevenhundredthousandamericandollarsusthatihavewithafinancesecuritycompanyabroadiwillwantyoutohelpmecollectthisdepositanddispatchedittocharityorganizationsihavesetasideonlyforyouandforyourtimeandalsoasmiscellaneousexpensesreplymeatyourearliestconvenienceformoredirectivestomyprivateemailaddressrezaabdullawallacomgodbewithyouregardsmrrezaabdulla', 6), ('getadelllaptopcomputerfree', 5), ('getyourcollegedegreeonline', 5), ('doyouejacultebeforeorafterfewminutesofpenetrationthenyoumustreadthisimportantnewinformationatlastsomethingcanbedoneagainstthisembarssingproblemwhichleadstodiscomforteveninlongestablishedrelationshipsifyouaremanenoughtoreadongoherenotinterested', 5)]
+**Top Legitimate Words**: [('startdatehouraheadhourstartdatehouraheadhournoancillaryschedulesawardednovariancesdetectedlogmessagesparsingfileo\\portland\\westdesk\\californiascheduling\\isofinalschedules\\txt', 449), ('schedulecrawlerhouraheadfailurestartdatehouraheadhourhouraheadscheduledownloadfailedmanualinterventionrequired', 85), ('schedulecrawlerhouraheadfailurestartdatehouraheadhourhouraheadscheduledownloadfailedmanualinterventionrequiredlogmessagesparsingfileo\\portland\\westdesk\\californiascheduling\\isofinalschedules\\txterrordbcapsdatacannotperformthisoperationonacloseddatabaseunknowndatabasealiasdbcapsdataunknowndatabasealiasdbcapsdataunknowndatabasealiasdbcapsdataerrordbcapsdatacannotperformthisoperationonacloseddatabaseunknowndatabasealiasdbcapsdataunknowndatabasealiasdbcapsdataunknowndatabasealiasdbcapsdataerrordbcapsdatacannotperformthisoperationonacloseddatabaseunknowndatabasealiasdbcapsdataunknowndatabasealiasdbcapsdataerrordbcapsdatacannotperformthisoperationonacloseddatabaseerrordbcapsdatacannotperformthisoperationonacloseddatabaseerrordbcapsdatacannotperformthisoperationonacloseddatabaseunknowndatabasealiasdbcapsdataunknowndatabasealiasdbcapsdataunknowndatabasealiasdbcapsdataunknowndatabasealiasdbcapsdataunknowndatabasealiasdbcapsdataunknowndatabasealiasdbcapsdataunknowndatabasealiasdbcapsdataerrordbcapsdatacannotperformthisoperationonacloseddatabase', 42), ('startdatehouraheadhourstartdatehouraheadhournoancillaryschedulesawardedvariancesdetectedvariancesdetectedinloadschedulelogmessagesparsingfileo\\portland\\westdesk\\californiascheduling\\isofinalschedules\\txtloadschedulevariancefoundintabletblloadsdetailshourpreferredfinaltranstypefinalloadidpgemkttypetransdatescidenrj', 37), ('schedulecrawlerhouraheadfailurestartdatehouraheadhourhouraheadscheduledownloadfailedmanualinterventionrequiredlogmessagesparsingfileo\\portland\\westdesk\\californiascheduling\\isofinalschedules\\txterrordbcapsdatacannotperformthisoperationonacloseddatabaseunknowndatabasealiasdbcapsdataunknowndatabasealiasdbcapsdataunknowndatabasealiasdbcapsdataerrordbcapsdatacannotperformthisoperationonacloseddatabaseunknowndatabasealiasdbcapsdataunknowndatabasealiasdbcapsdataunknowndatabasealiasdbcapsdataerrordbcapsdatacannotperformthisoperationonacloseddatabaseunknowndatabasealiasdbcapsdataunknowndatabasealiasdbcapsdataerrordbcapsdatacannotperformthisoperationonacloseddatabaseerrordbcapsdatacannotperformthisoperationonacloseddatabaseerrordbcapsdatacannotperformthisoperationonacloseddatabaseunknowndatabasealiasdbcapsdataunknowndatabasealiasdbcapsdataunknowndatabasealiasdbcapsdataunknowndatabasealiasdbcapsdataunknowndatabasealiasdbcapsdataunknowndatabasealiasdbcapsdataerrordbcapsdatacannotperformthisoperationonacloseddatabase', 36), ('hplnomformarchseeattachedfilehplnoxlshplnoxls', 31), ('hplnomforaprilseeattachedfilehplnoxlshplnoxls', 22), ('hplnomformayseeattachedfilehplnoxlshplnoxls', 22), ('startdatehouraheadhourstartdatehouraheadhournoancillaryschedulesawardednovariancesdetectedlogmessagesparsingfileo\\portland\\westdesk\\californiascheduling\\isofinalschedules\\txtcannotlocateapreferredorrevisedpreferredschedulethatmatchesthefinalindividualinterchangescheduleunabletoassigndealnumber', 21), ('calpinedailygasnominationrickyaarcherfuelsupplylouisianasuitehoustontexasdirectfaxcalpinedailygasnominationdoc', 20)]
+**Top Phishing Bigrams**: [(('xnd1aqfkf.xnp1ai/bitrix/', '...'), 5), (('xnd1aqfkf.xnp1ai443/bitrix/', '...'), 3), (('...', 'papertdl0rlkeycmogrenrbjfp51d8k5prlx5pl'), 2), (('...', '/globalsources/emailsalesrtmachine.com'), 2), (('...', '/globalsources/emailjerwinclmgcorp.com'), 2), (('...', '/globalsources/emailinfo.sgovivowater.com'), 2), (('www.3136mase.life/account/loginspm', 'index.header_1.1'), 1), (('allegrolokalnie.zakuponline24h.pl/oferta/', '...'), 1), (('t.co/abbziz0dxse_5346ampupdate1amptoken2y125572', '5724'), 1), (('allegrolokalnie.zakuponline24h.pl/oferta/jblpartybox710pr', '...'), 1)]
 **Top Legitimate Bigrams**: []
+**Top Phishing Trigrams**: [(('www.clinicadapele.com.br/wpcontent/uploads/alert/', '...', '/index.php'), 1), (('admirablebaklava6996abhk112s.netlify.app/dist/rcdnull/dist/rcdnull/dist/rcdnull/dist/rcdnull/dist/rcdnull/dist/rcdnull/dist/rcdnull/dist/rcdnull//dist/rcdnull/dist/rcdnull/dist/rcdnull/dist/rcdnull/dist/rcdnull/dist/rcdnull/dist/rcdnull', '....', '2031120'), 1), (('....', '2031120', '...'), 1), (('2031120', '...', '/dist/rcdnull/dist/rcdnull'), 1), (('zolotayapodkovka.ru/.tmb/', '...', '/closed/fr/1/doc/start_index.php'), 1), (('www.dropbox.com/scl/fi/hrs78ef9ib5wfwssijyzj/btnewsecurityfeaturese280a6', '...', 'papertdl0rlkeycmogrenrbjfp51d8k5prlx5pl'), 1), (('www.dropbox.com/scl/fi/hrs78ef9ib5wfwssijyzj/btvoicemailrecorde280a6', '...', 'papertdl0rlkeycmogrenrbjfp51d8k5prlx5pl'), 1), (('xnd1aqfkf.xnp1ai443/bitrix/', '...', '/globalsources/emailsalesrtmachine.com'), 1), (('xnd1aqfkf.xnp1ai/bitrix/', '...', '/globalsources/emailsalesrtmachine.com'), 1), (('xnd1aqfkf.xnp1ai443/bitrix/', '...', '/globalsources/emailjerwinclmgcorp.com'), 1)]
+**Top Legitimate Trigrams**: []
+## Balanced (SMOTE)
+**Summary**: {'Size': 162854, 'Columns': ['label'], 'Missing Values': {'label': 0}, 'Duplicates': np.int64(162852)}
+**Label Distribution**: {0: 81427, 1: 81427}
